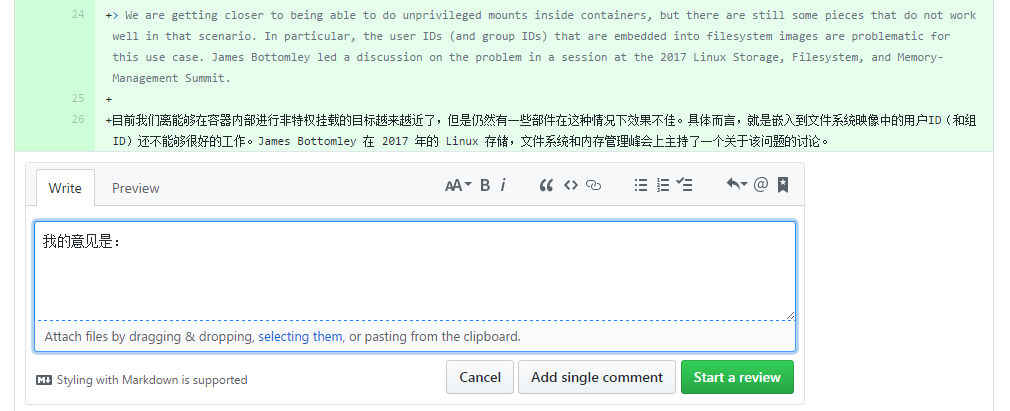
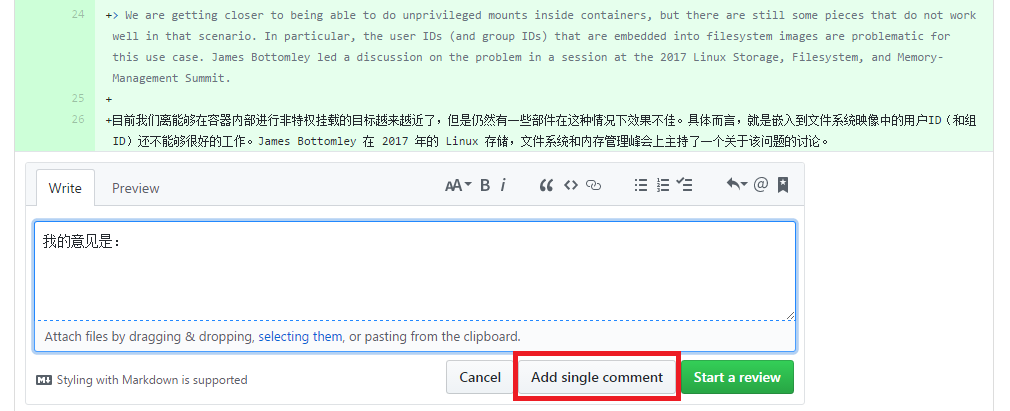
lwn project: continue fix issue

Changed region(s): [[0.4911, 0.8467, 0.6752, 0.9927]]

diff --git a/pages/books/lwn/lwn-articles-review-wanted.md b/pages/books/lwn/lwn-articles-review-wanted.md
@@ -68,7 +68,7 @@ tags:
 
 	![](/wp-content/uploads/2018/05/lwn-review-step4-2.png)
 
-	点击该 “+”，即可输入您的评审意见
+	点击该 “+” 后输入您的评审意见，完成后点击 “Add single comment” 即可。
 
 	![](/wp-content/uploads/2018/05/lwn-review-step4-3.png)
 
